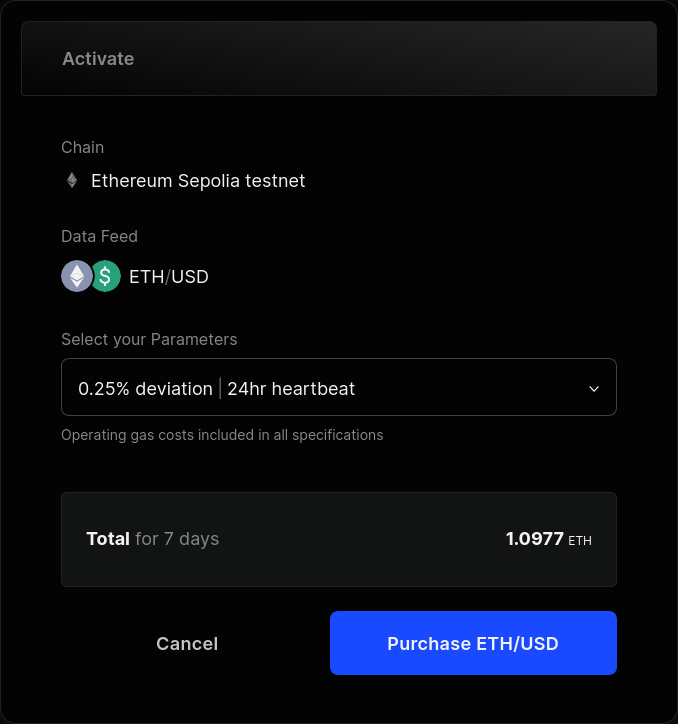
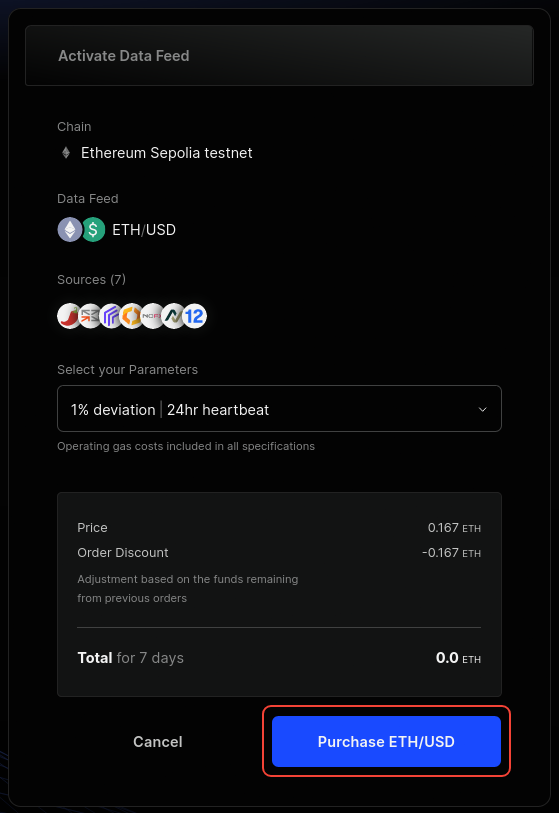
fix: market updates and guides

diff --git a/docs/guides/airnode/calling-an-airnode/index.md b/docs/guides/airnode/calling-an-airnode/index.md
@@ -35,7 +35,8 @@ requests data from an Airnode, via the
 
 ::: warning Check your Network!
 
-Make sure you're on a Testnet before trying to deploy the contracts on-chain!
+Make sure you're on a Ethereum Sepolia testnet before trying to deploy the
+contracts on-chain!
 
 :::
 
@@ -43,6 +44,9 @@ Given below is an example of a basic
 [Requester Contract](/reference/airnode/latest/concepts/requester.md) to request
 data from any Airnode. To follow along, you can open the following contract in
 Remix and try deploying your own Requester Contract.
+
+In this example, you will be calling the Coingecko Airnode to request the latest
+price of an asset on Ethereum Sepolia.
 
 [Open in Remix](https://remix.ethereum.org/#url=https://github.com/api3-ecosystem/remix-contracts/blob/master/contracts/RequesterWithWithdrawal.sol&lang=en&optimize=false&runs=200&evmVersion=null&version=soljson-v0.8.9+commit.e5eed63a.js)
 
@@ -199,15 +203,16 @@ It calls the `requestWithdrawal` function of the `airnodeRrp` contract.
 :::warning Set up your Testnet Metamask Account!
 
 Make sure you've already configured your Metamask wallet and funded it with some
-testnet ETH before moving forward. You can request some from
-[here](https://faucet.paradigm.xyz/)
+testnet Sepolia ETH before moving forward. You can request some from
+[here](https://www.alchemy.com/faucets/ethereum-sepolia)
 
 :::
 
 You now need to deploy the Requester Contract and call it through Remix. It will
-be calling the Coingecko Airnode to request the latest price of Ethereum.
+be calling the Coingecko Airnode to request the latest price of Bitcoin on
+Ethereum Sepolia testnet.
 
-### Compile and Deploy the Requester Contract on Goerli Testnet
+### Compile and Deploy the Requester Contract on Sepolia Testnet
 
 - [Click here](https://remix.ethereum.org/#url=https://github.com/api3-ecosystem/remix-contracts/blob/master/contracts/RequesterWithWithdrawal.sol&lang=en&optimize=false&runs=200&evmVersion=null&version=soljson-v0.8.9+commit.e5eed63a.js)
   to open the Requester Contract in Remix.
@@ -221,7 +226,7 @@ be calling the Coingecko Airnode to request the latest price of Ethereum.
 
 - Head to Deploy and run Transactions and select Injected Provider — MetaMask
   option under Environment. Connect your MetaMask. Make sure you’re on the
-  Goerli Testnet.
+  Sepolia Testnet.
 
 - The `_rrpAddress` is the main `airnodeRrpAddress`. The RRP Contracts have
   already been deployed on-chain. You can check for your specific chain
@@ -237,23 +242,24 @@ needs to be derived from the requester's contract address, the Airnode address,
 and the Airnode xpub. The wallet is used to pay gas costs of the transactions.
 The sponsor wallet must be derived using the command
 [derive-sponsor-wallet-address](/reference/airnode/latest/developers/requesters-sponsors.md#how-to-derive-a-sponsor-wallet)
-from the Admin CLI. Use the value of the sponsor wallet address that the command
-outputs while making the request. **This wallet needs to be funded.**
+from the [Admin CLI](/reference/airnode/latest/packages/admin-cli). Use the
+value of the sponsor wallet address that the command outputs while making the
+request. **This wallet needs to be funded.**
 
-::: details Coingecko's Airnode Details
+::: details Coingecko's Airnode Details on Sepolia Testnet
 
 ```
-Coingecko's Airnode Address = 0x478f9e54E5B2ee1D0A05cae1FaA3591CAA1b7091
-Coingecko's Airnode XPUB = xpub6CnJr6BxgEpTBs9Aso71S5EkcRsR4MHzzKGTRA8aoyYhyvqgcacZFnx6a6quX47Vo97oACohk2isNAz68jnmDqrxQ9C1dKWMZtDN6tyVHaG
-Coingecko's Endpoint ID (`/simple/price`) = 0xfb87102cdabadf905321521ba0b3cbf74ad09c5d400ac2eccdbef8d6143e78c4
+Coingecko's Airnode Address = 0x5231b5b98A43F2E25806193dE21e200a1468093f
+Coingecko's Airnode XPUB = xpub6Ce9SBpTarEP5BZV5qH8ZfQjLmwfJT2SZQMKAtkV2F3cj1zXB8pUzpDa3RpDuT2xHAwQ2v7vtkPeMargby67NVNCtEBzRNvdAi4Z5yaHhUC
+Coingecko's Endpoint ID (`/simple/price`) = 0x5dbf4e8c53ad4ffdec277ec4df847e6272597fd851f147c93208e0cff99df72d
 ```
 
 :::
 
 ```sh
 npx @api3/airnode-admin derive-sponsor-wallet-address \
-  --airnode-xpub xpub6CnJr6BxgEpTBs9Aso71S5EkcRsR4MHzzKGTRA8aoyYhyvqgcacZFnx6a6quX47Vo97oACohk2isNAz68jnmDqrxQ9C1dKWMZtDN6tyVHaG \
-  --airnode-address 0x478f9e54E5B2ee1D0A05cae1FaA3591CAA1b7091 \
+  --airnode-xpub xpub6Ce9SBpTarEP5BZV5qH8ZfQjLmwfJT2SZQMKAtkV2F3cj1zXB8pUzpDa3RpDuT2xHAwQ2v7vtkPeMargby67NVNCtEBzRNvdAi4Z5yaHhUC \
+  --airnode-address 0x5231b5b98A43F2E25806193dE21e200a1468093f \
   --sponsor-address <Use the address of your Deployed Requester>
 
   Sponsor wallet address: 0x6394...5906757
@@ -314,7 +320,7 @@ click on Transact.
 
 > ![Making the Request](src/s5.png)
 
-Head over to [Goerli Testnet Explorer](https://goerli.etherscan.io/) and check
+Head over to [Sepolia Testnet Explorer](https://sepolia.etherscan.io/) and check
 your `sponsorWallet` for any new transactions.
 
 > ![Making the Request](src/s6.png)

diff --git a/docs/reference/dapis/understand/index.md b/docs/reference/dapis/understand/index.md
@@ -100,24 +100,41 @@ team to ensure the highest quality data availability for the listed dAPIs.
 dAPIs are available on both major EVM-compatible testnets and mainnets. The
 chains that are currently supported are listed below:
 
-| Mainnet         | Testnet                       |
-| --------------- | ----------------------------- |
-| Arbitrum One    | Arbitrum Sepolia Testnet      |
-| Avalanche       | Avalanche Testnet             |
-| Base            | Base Sepolia Testnet          |
-| Blast           | Blast Sepolia Testnet         |
-| BNB Smart Chain | BNB Smart Chain Testnet       |
-| Ethereum        | Ethereum Sepolia Testnet      |
-| Fantom          | Fantom Testnet                |
-| Gnosis Chain    | Gnosis Chain Testnet          |
-| Kava            | Kava Testnet                  |
-| Linea           | Linea Sepolia Testnet         |
-| Mantle          |                               |
-| Moonbeam        | Moonbeam Testnet              |
-| Moonriver       |                               |
-| Optimism        | Optimism Sepolia Testnet      |
-| Polygon zkEVM   | Polygon zkEVM Sepolia Testnet |
-| Polygon         |                               |
+| Mainnet          | Testnet                       |
+| ---------------- | ----------------------------- |
+| Arbitrum One     | Arbitrum Sepolia Testnet      |
+| Astar zkEVM      | Astar zkEVM Sepolia Testnet   |
+| Avalanche        | Avalanche Testnet             |
+| Base             | Base Sepolia Testnet          |
+| Blast            | Blast Sepolia Testnet         |
+| Bob              | Bob Sepolia Testnet           |
+| BNB Smart Chain  | BNB Smart Chain Testnet       |
+| BSquared Network | BSquared Network Testnet      |
+| Core             | Core Testnet                  |
+| Ethereum         | Ethereum Sepolia Testnet      |
+| Fantom           | Fantom Testnet                |
+| Fraxtal          | Fraxtal Holesky Testnet       |
+| Gnosis Chain     | Gnosis Chain Testnet          |
+| inEVM            | inEVM Testnet                 |
+| Kava             | Kava Testnet                  |
+| Kroma            | Kroma Sepolia Testnet         |
+| LightLink        | LightLink Sepolia Testnet     |
+| Linea            | Linea Sepolia Testnet         |
+| Lukso            | Lukso Testnet                 |
+| Mantle           |                               |
+| Merlin           | Merlin Testnet                |
+| Metis            | Metis Sepolia Testnet         |
+| Mode             | Mode Sepolia Testnet          |
+| Moonbeam         | Moonbeam Testnet              |
+| Moonriver        |                               |
+| opBNB            | opBNB Testnet                 |
+| Optimism         | Optimism Sepolia Testnet      |
+| Polygon zkEVM    | Polygon zkEVM Sepolia Testnet |
+| Polygon          |                               |
+| RARI Chain       |                               |
+| Sei              | Sei Testnet                   |
+| Taiko            | Taiko Holesky Testnet         |
+| X Layer          | X Layer Sepolia Testnet       |
 
 Head over to the [API3 Market](https://market.api3.org/) to see the list of all
 available dAPIs and their chains.
@@ -130,15 +147,14 @@ the mapping for the dAPI will be updated to point to the particular
 
 ::: info Note
 
-If you have already deployed your proxy contract to read from the dAPI, it will
-remain the same. Purchasing a better configuration will not change your proxy
-contract address for the dAPI.
+Purchasing a better configuration will not change the proxy contract address for
+the dAPI.
 
 :::
 
 With dAPIs, dApps can have an option to configure the deviation threshold and
-heartbeat. For mainnet feeds, dApps have the following options to choose from
-based on the chain and dAPI:
+heartbeat. For both mainnet and testnet feeds, dApps have the following options
+to choose from based on the chain and dAPI:
 
 | Deviation | Heartbeat |
 | --------- | --------- |

diff --git a/docs/guides/dapis/subscribing-to-dapis/index.md b/docs/guides/dapis/subscribing-to-dapis/index.md
@@ -32,8 +32,10 @@ seamlessly access dAPI services. This end-to-end process consists of:
   <br/>
 - [Activating your dAPI](/guides/dapis/subscribing-to-dapis/#activating-your-dapi)
   <br/>
-- [Setting up OEV and getting the proxy address](/guides/dapis/subscribing-to-dapis/#setting-up-oev-and-getting-the-proxy-address)
+- [Getting the proxy address](/guides/dapis/subscribing-to-dapis/#getting-the-proxy-address)
   <br/>
+
+<img src="../../assets/images/dapi-1.png" style="width:100%"/>
 
 ## Exploring, selecting and configuring your dAPI
 
@@ -74,7 +76,7 @@ more if you are unsure what suits your dApp_
 
 If a dAPI is already activated, make sure to check the expiration date and
 update parameters. You can update the parameters and extend the subscription by
-purchasing a new configuration.
+purchasing a new configuration or read the dAPI directly by using the proxy.
 
 :::
 
@@ -90,43 +92,22 @@ Once the transaction is confirmed, you will be presented with a confirmation
 page for the order. You can now go back and check the updated configuration for
 the dAPI.
 
-## Setting up OEV and getting the proxy address
+<img src="../../assets/images/dapi-8.png" style="width:60%"/>
+
+## Getting the Proxy Address
 
 Once you are done configuring and activating the dAPI, you can now integrate it.
 To do so, click on the **Integrate** button on the dAPI details page.
 
+<img src="../../assets/images/dapi-9.png" style="width:100%"/>
+
+To read from the dAPI, you will need the
+[proxy contract](/reference/dapis/understand/proxy-contracts) address. Copy the
+displayed proxy address.
+
 <img src="../../assets/images/dapi-5.png" style="width:100%"/>
 
-To read from the dAPI, you will need the proxy contract address. Select **Get
-Proxy Address** to get the proxy contract address.
-
-<img src="../../assets/images/dapi-6.png" style="width:100%"/>
-
-Before you can start reading from the dAPI, you will need to set your **OEV
-beneficiary address**. This is the address that will receive the OEV proceeds
-through the OEV Network.
-
-::: info Note
-
-The OEV beneficiary address must be an EOA or a smart contract address that can
-call the `Api3ServerV1` contract to withdraw funds to itself.
-
-<!-- Click here to read more about the [OEV beneficiary](). -->
-
-:::
-
-Once you have entered a valid address, click on **Deploy Proxy**. Confirm the
-transaction in your wallet.
-
-<img src="../../assets/images/dapi-7.png" style="width:100%"/>
-
-You can now see the deployed proxy contract address. You can now use this to
-read from the configured dAPI.
-
-In order for OEV Searchers to be able to find your dApp and participate in the
-OEV auctions, you must register your dApp and all the proxies with
-[API3 Ecosystem](https://ecosystem.api3.org/). To do this, click on **Register
-Proxy** and fill out all the details about your dApp.
+You can now use this to read from the configured dAPI.
 
 To get started with using dAPIs, you can follow the
 [Reading a dAPI Proxy guide](/guides/dapis/read-a-dapi/).

diff --git a/docs/reference/dapis/understand/deviations.md b/docs/reference/dapis/understand/deviations.md
@@ -47,17 +47,20 @@ the heartbeat) the dAPI value is forcibly updated. For example:
 
 ## Testnet dAPIs
 
-Testnet dAPIs are only available on the API3 Market with a deviation threshold
-of 1% and a [heartbeat](/reference/dapis/understand/deviations.md#heartbeat) of
-24 hours.
+Testnet dAPIs are available on the API3 Market with multiple deviation
+thresholds and [heartbeat](/reference/dapis/understand/deviations.md#heartbeat)
+settings.
 
 | Deviation | Heartbeat |
 | --------- | --------- |
+| 0.25%     | 24 hours  |
+| 0.5%      | 24 hours  |
 | 1%        | 24 hours  |
+| 5%        | 24 hours  |
 
 ## Mainnet dAPIs
 
-Mainnet dAPIs will be available on the API3 Market with multiple deviation
+Mainnet dAPIs are available on the API3 Market with multiple deviation
 thresholds and [heartbeat](/reference/dapis/understand/deviations.md#heartbeat)
 settings.
 

diff --git a/docs/guides/dapis/index.md b/docs/guides/dapis/index.md
@@ -140,8 +140,8 @@ grouped by asset type(s) of supplied data:
 
 Each dAPI has a [proxy contract](/reference/dapis/understand/proxy-contracts)
 that is used to read the value of the dAPI. The proxy contract is linked to a
-mapping that maps to a `beaconId` or `beaconSetId` and an OEV beneficiary
-address. The `beaconId` for each dAPI gets updated when the price hits the set
+mapping that maps to a `beaconId` or `beaconSetId`. The `beaconId` for each dAPI
+gets updated when the price hits the set
 [deviation threshold](/reference/dapis/understand/deviations.md)/[heartbeat](/reference/dapis/understand/deviations.md#heartbeat)
 .
 

diff --git a/docs/guides/dapis/read-a-dapi/index.md b/docs/guides/dapis/read-a-dapi/index.md
@@ -22,7 +22,7 @@ tags:
 
 This guide requires a proxy contract address for a particular dAPI you are
 interested in. You can find them in the [API3 Market](https://market.api3.org)
-website. If a proxy contract has not been created for a particular dAPI use the
+website. If a proxy contract has not been created for a particular dAPI, use the
 API3 Market UI to do so, see the guide
 [Subscribing to dAPIs](/guides/dapis/subscribing-to-dapis/).
 
